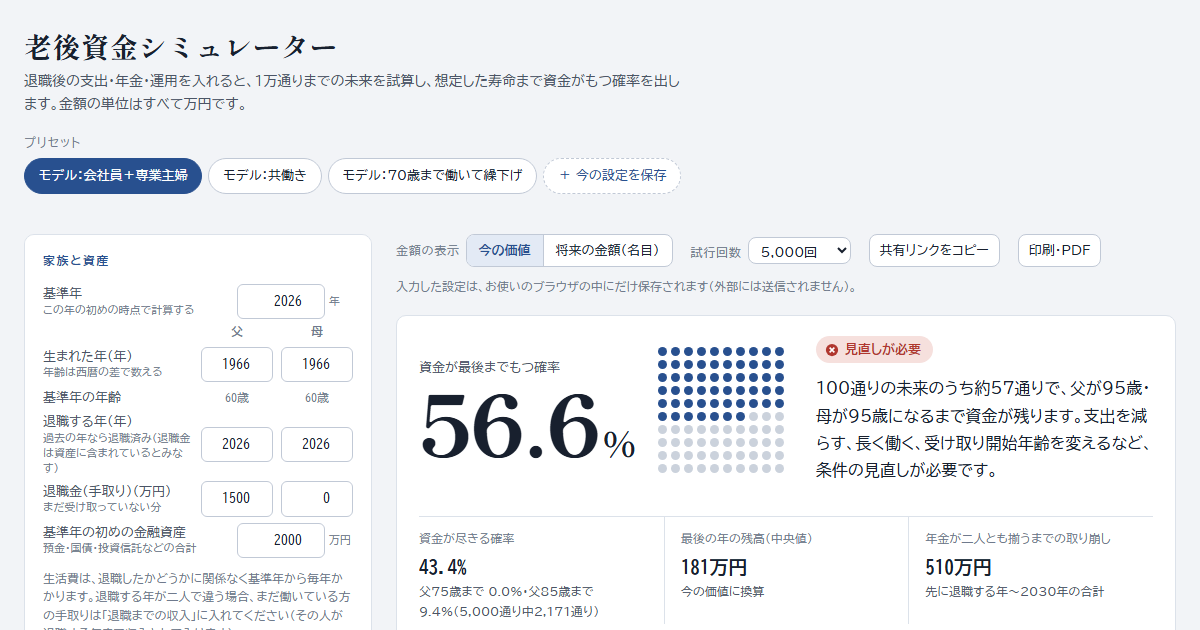
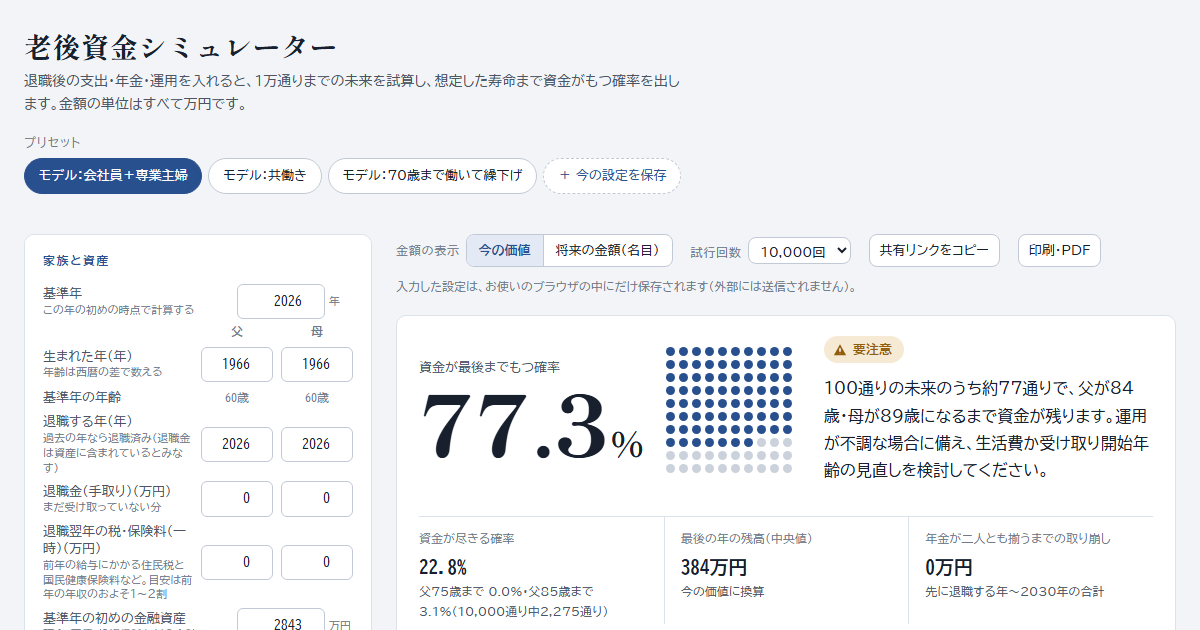
見本の世帯を公的統計の平均値に置き換える
- 年金・手取り率・生活費・資産と配分・60〜64歳の収入・寿命・介護費を、厚労省・総務省・生命保険文化センターの統計の平均値に
- 株の期待リターン・リスク・相関は GPIF 第5期（成長型経済移行・継続ケース）、インフレ率は日銀の目標と財政検証、国債・現金の金利は2026年9〜10月時点の値に
- 出典欄に各値の出典と、筆者の置き方（手取り約8割、介護は最後の5年、目減りの年平均）を明記
- 配分のスライダーを1%刻みに（18% が 20% に丸められて計算されていた）、年金・生活費などの入力の刻みを細かく
- プリセット（共働き・70歳まで働いて繰下げ）も同じ統計から作り直し、OG 画像を撮り直した

diff --git a/老後資金シミュレーター.html b/老後資金シミュレーター.html
@@ -449,7 +449,7 @@ details.assume ul{margin:12px 0 0;padding-left:1.2em;color:var(--ink-2);display:
           <li>車は指定した時期に1台ずつ、それぞれの価格で買い、買い替え間隔が0なら買い替えません。買い替えのときも同じ価格とします。間隔を入れた場合は、その間隔ごとに買い替えます（運転をやめる年齢までに間隔の半分以上使える場合だけ）。「1台に減らす年齢」を過ぎたら2台目は買い替えません。維持費は基準年から、今の台数分かかります。</li>
           <li>「国債で取っておく」を選ぶと、旅行代と車の購入費（2台目・買い替え分も含むすべて）をインフレ込みで見積もり、国債の利回りで割り引いた額を今の資産から先に取り分けます（利回りは一定と仮定）。取り分けた分は運用の配分に含めず、資産グラフと収支表では合計に含めます。資金が尽きたかどうかは運用資産で判定します。</li>
           <li>「毎年、比率を元に戻す」は株式・債券・現金の比率を毎年リバランスします。「分けて持つ」は、毎年の取り崩しを現金→国債→株の順に払い、年末に翌年からの必要額に合わせて現金と国債を補充します。暴落時ルールがオンなら、株が直近の高値から指定した率以上下がっている年は株を売らず、国債から現金を補充します（国債が足りなければ株を売ります）。</li>
-          <li>リターンは対数正規分布です。相関は全世界株と日本株0.65、株と債券0.2としています。日本株の配当は値上がり益と合わせたリターンに含めて扱い、NISAの外なら配当に約20%の税金がかかる分だけリターンを差し引きます。</li>
+          <li>リターンは対数正規分布です。相関は全世界株と日本株0.69（GPIF の外国株式と国内株式の相関）、株と債券0.2としています。日本株の配当は値上がり益と合わせたリターンに含めて扱い、NISAの外なら配当に約20%の税金がかかる分だけリターンを差し引きます。</li>
           <li>医療費の上乗せは指定した年齢から、介護・施設費は指定した年齢から指定した年数（0なら寿命の想定まで）、それぞれ生きている間だけかかります（どちらもインフレ率で上がります）。「退職翌年の税・保険料」は、それぞれが退職した翌年に一度だけ払う額として生活費に上乗せします（インフレ率で上がります）。運用益の税金（NISA枠外は約20%）、住宅の修繕費、介護の一時費用（住宅改修など）は含みません。必要に応じて生活費や医療費に上乗せしてください。</li>
           <li>この結果は仮定に基づく試算で、将来を保証するものではありません。大きな判断の前にはFP等の専門家に相談してください。</li>
         </ul>
@@ -466,11 +466,17 @@ details.assume ul{margin:12px 0 0;padding-left:1.2em;color:var(--ink-2);display:
         <li>遺族厚生年金（亡くなった方の老齢厚生年金の4分の3）・中高齢寡婦加算：<a href="https://www.nenkin.go.jp/" target="_blank" rel="noopener">日本年金機構</a>「遺族年金」</li>
         <li>生活費の目安：総務省統計局「<a href="https://www.stat.go.jp/data/kakei/" target="_blank" rel="noopener">家計調査</a>」（高齢夫婦無職世帯の消費支出）</li>
         <li>介護・施設費の目安（月額平均9.0万円、在宅5.3万円・施設13.8万円、平均期間55.0か月）：生命保険文化センター「2024（令和6）年度 生命保険に関する全国実態調査」（<a href="https://www.jili.or.jp/lifeplan/lifesecurity/1116.html" target="_blank" rel="noopener">介護にはどれくらいの費用・期間がかかる？</a>）</li>
-        <li>年金額の初期値（夫 月16万円・妻 月7万円）の目安：厚生労働省「<a href="https://www.mhlw.go.jp/stf/houdou/0000191631_00020.html" target="_blank" rel="noopener">令和8年度の年金額改定についてお知らせします</a>」（標準的な夫婦の年金額 月237,279円、老齢基礎年金の満額 月70,608円）。標準的な夫婦は「夫が平均的な賃金で40年働いた」場合のモデルで、実際に受け取っている額の平均ではありません</li>
-        <li>インフレ率の初期値（年2%）：日本銀行の「<a href="https://www.boj.or.jp/mopo/outline/index.htm" target="_blank" rel="noopener">物価安定の目標</a>」（消費者物価の前年比上昇率2%）に合わせた仮定です。実際の物価上昇率は、年によってこれより高いことも低いこともあります</li>
-        <li>寿命の想定の初期値（95歳）：平均寿命（男81.35年・女87.33年）より長めに取った仮定です。90歳まで生きる人の割合は男26.7%・女50.8%（厚生労働省「<a href="https://www.mhlw.go.jp/toukei/saikin/hw/life/life25/index.html" target="_blank" rel="noopener">令和7年簡易生命表の概況</a>」）</li>
-        <li>株・国債・現金の期待リターンとリスク、相関、年金の手取り率と目減り、国債の利回り、現金の金利の初期値は、筆者が置いた仮定で、公的な推計ではありません。国債と現金の利回りは、今の金利より低めにしています</li>
-        <li>初期値と「モデル：〜」のプリセットは説明用の架空の世帯で、平均値そのものではありません。初期値には介護・施設費を入れていません（入れると確率は下がります）。</li>
+        <li>初期値は、次の公的統計・公表資料の平均値を組み合わせた架空の世帯です（夫婦とも60歳、夫は今年定年）。</li>
+        <li>年金（夫 月16.7万円・妻 月7.1万円、うち夫の厚生年金9.6万円）：厚生労働省「<a href="https://www.mhlw.go.jp/stf/houdou/0000191631_00020.html" target="_blank" rel="noopener">令和8年度の年金額改定について</a>」の標準的な夫婦（月237,279円＝基礎年金70,608円×2＋夫の厚生年金96,063円）。夫が平均的な賃金で40年働いた場合のモデルで、実際に受け取っている額の平均ではありません。共働きのプリセットの妻（月13.5万円、うち厚生年金6.3万円）は同じ資料の「厚生年金期間中心の女性」の平均</li>
+        <li>年金の手取り率87%：総務省統計局「<a href="https://www.stat.go.jp/data/kakei/" target="_blank" rel="noopener">家計調査</a>」2025年の高齢夫婦無職世帯の、実収入254,395円に対する非消費支出（税・社会保険料）32,850円の割合から</li>
+        <li>生活費（月26.4万円）・一人になった後の生活費（56%）：同じく家計調査2025年の高齢夫婦無職世帯の消費支出263,979円と、高齢単身無職世帯の消費支出148,445円。旅行・車・医療費はこの中に含まれるので、初期値では別に足していません</li>
+        <li>金融資産（2,843万円）と運用の配分（株25%・国債18%・現金57%）：総務省統計局「家計調査（貯蓄・負債編）」2025年の世帯主60〜69歳の貯蓄現在高の平均と、その内訳（有価証券・生命保険など・預貯金）。退職金を受け取った世帯も含む平均なので、退職金は0にしています</li>
+        <li>夫の60〜64歳の収入（手取り月28.5万円）：厚生労働省「<a href="https://www.mhlw.go.jp/toukei/itiran/roudou/chingin/kouzou/z2025/index.html" target="_blank" rel="noopener">令和7年賃金構造基本統計調査</a>」の60〜64歳男性の所定内給与（月35.85万円）の約8割（手取りの割合は筆者の概算）</li>
+        <li>寿命の想定（夫84歳・妻89歳）：厚生労働省「<a href="https://www.mhlw.go.jp/toukei/saikin/hw/life/life25/index.html" target="_blank" rel="noopener">令和7年簡易生命表</a>」の60歳の平均余命（男23.86年・女29.07年）。平均余命は半分くらいの人がそれより長生きする年齢で、90歳まで生きる人の割合は男26.7%・女50.8%です</li>
+        <li>介護・施設費（月9.0万円を寿命までの最後の5年間）：生命保険文化センターの平均（月9.0万円、期間55.0か月）。最後の5年間にかかるとしたのは筆者の置き方です</li>
+        <li>株の期待リターン・リスク（全世界株 7.6%・20.4%、日本株 7.0%・19.2%、半分ずつ）と相関：GPIF「<a href="https://www.gpif.go.jp/gpif/15324685gpif/5th_policy_asset_mix_details_jp.pdf" target="_blank" rel="noopener">第5期中期目標期間における基本ポートフォリオについて</a>」の外国株式・国内株式（成長型経済移行・継続ケース）</li>
+        <li>インフレ率（年2%）：日本銀行の「<a href="https://www.boj.or.jp/mopo/outline/index.htm" target="_blank" rel="noopener">物価安定の目標</a>」、厚生労働省「<a href="https://www.mhlw.go.jp/content/001270476.pdf" target="_blank" rel="noopener">令和6年財政検証</a>」の成長型経済移行・継続ケースの物価上昇率。年金の目減り（年0.2%）は、同じケースで所得代替率が2024年度61.2%から2037年度57.6%に下がることを年平均に直した筆者の概算</li>
+        <li>国債の利回り（税引後1.8%）：財務省「<a href="https://www.mof.go.jp/jgbs/individual/kojinmuke/index.html" target="_blank" rel="noopener">個人向け国債</a>」2026年9月募集の固定5年（年2.24%、税引後1.7849%）。現金の金利（0.3%）：大手銀行の普通預金金利0.40%（2026年10月時点）の税引後</li>
       </ul>
     </details>
     <p class="links" id="footLinks" hidden></p>
@@ -492,15 +498,15 @@ const TMAX = 72, NMAX = 10000;
    下の値は、それを読めないとき（HTMLファイルを直接開いたときなど）だけ使う予備 */
 const DEFAULTS_FILE = 'config.example.json';
 let BASE = {
-  asOf:2026, birthYear:[1966,1966], retireYear:[2026,2026], assets:2000, severance:[1500,0], life:[95,95],
-  single:70, pension:[16,7], kosei:[9,0], survivor:true, claim:[65,65], netRate:90, slide:0.5, living:25,
-  cut75:0, cut85:0, medical:[0,0], medFrom:[0,0], care:[0,0], careFrom:[85,85], travel:1, travelFrom:2026,
-  travelUntil:2035, cars:1, carYears:[2031,2041], carPrice:[200,200], carEvery:0, carMaint:30, driveUntil:80,
-  oneCarFrom:0, earmark:false, safeRate:1.0, preWork:[0,0], work:[20,0], workUntil:[65,65], strategy:0, cashYears:2,
-  preCashYears:1, bondYears:5, crashRule:false, crashDD:20, stockCap:100, jpShare:0, jpTaxable:false, jpYield:3.0,
-  stock:50, bond:40, inflation:2, stockRet:5.0, stockVol:18, jpRet:5.0, jpVol:20, bondRet:1.0, bondVol:0,
-  cashRet:0.2, inflVol:0, bondFloat:0, bondLink:0, linkReal:0.5,
-  retTax:[0,0], careYears:[0,0]
+  asOf:2026, birthYear:[1966,1966], retireYear:[2026,2026], assets:2843, severance:[0,0], life:[84,89],
+  single:56, pension:[16.7,7.1], kosei:[9.6,0], survivor:true, claim:[65,65], netRate:87, slide:0.2, living:26.4,
+  cut75:0, cut85:0, medical:[0,0], medFrom:[0,0], care:[9.0,9.0], careFrom:[79,84], travel:0, travelFrom:2026,
+  travelUntil:2035, cars:0, carYears:[2031,2041], carPrice:[200,200], carEvery:0, carMaint:30, driveUntil:80,
+  oneCarFrom:0, earmark:false, safeRate:1.8, preWork:[0,0], work:[28.5,0], workUntil:[65,65], strategy:0, cashYears:2,
+  preCashYears:1, bondYears:5, crashRule:false, crashDD:20, stockCap:100, jpShare:50, jpTaxable:false, jpYield:3.0,
+  stock:25, bond:18, inflation:2.0, stockRet:7.6, stockVol:20.4, jpRet:7.0, jpVol:19.2, bondRet:1.8, bondVol:0,
+  cashRet:0.3, inflVol:0, bondFloat:0, bondLink:0, linkReal:0.5,
+  retTax:[0,0], careYears:[5,5]
 };
 let PRESETS = [];
 let LINKS = {}; // config.example.json の links（repo: GitHub のURL、article: 解説記事のURL）
@@ -521,12 +527,12 @@ const GROUPS = [
   {title:'寿命の想定', note:'持病などで短めに見積もる人は、その年齢を入れます。二人の年齢を違う値にすると、一人になった後の期間も計算されます。', items:[
     {t:'head'},
     {t:'pair', k:'life', label:'この年齢まで資金を用意', unit:'歳', min:60, max:110, step:1},
-    {t:'one', k:'single', label:'一人になった後の生活費', sub:'二人のときに対する割合', unit:'%', min:30, max:100, step:5}
+    {t:'one', k:'single', label:'一人になった後の生活費', sub:'二人のときに対する割合', unit:'%', min:30, max:100, step:1}
   ]},
   {title:'年金', note:'遺族厚生年金は、亡くなった方の厚生年金（繰上げ・繰下げをしない場合の額）の4分の3から、残された方自身の厚生年金を引いた差額です。非課税なので手取り率はかけません。厚生年金の月額が分からないときは、年金の月額から基礎年金（満額で月6.9万円）を引いた額が目安です。', items:[
     {t:'head'},
-    {t:'pair', k:'pension', label:'年金の月額', sub:'65歳から受け取る場合', unit:'万円', min:0, max:60, step:0.5},
-    {t:'pair', k:'kosei', label:'うち厚生年金の月額', sub:'ねんきん定期便の「老齢厚生年金」', unit:'万円', min:0, max:60, step:0.5},
+    {t:'pair', k:'pension', label:'年金の月額', sub:'65歳から受け取る場合', unit:'万円', min:0, max:60, step:0.1},
+    {t:'pair', k:'kosei', label:'うち厚生年金の月額', sub:'ねんきん定期便の「老齢厚生年金」', unit:'万円', min:0, max:60, step:0.1},
     {t:'pair', k:'claim', label:'受け取り開始年齢', unit:'歳', min:60, max:75, step:1},
     {t:'fx'},
     {t:'one', k:'netRate', label:'手取り率', sub:'月額が額面なら85〜90%', unit:'%', min:50, max:100, step:1},
@@ -534,7 +540,7 @@ const GROUPS = [
     {t:'chk', k:'survivor', label:'一人になった後、遺族厚生年金を受け取る'}
   ]},
   {title:'支出', items:[
-    {t:'one', k:'living', label:'生活費（二人の月額）', unit:'万円', min:0, max:200, step:0.5},
+    {t:'one', k:'living', label:'生活費（二人の月額）', unit:'万円', min:0, max:200, step:0.1},
     {t:'one', k:'cut75', label:'75歳から生活費を減らす', sub:'若い方の年齢で判定', unit:'%', min:0, max:60, step:5},
     {t:'one', k:'cut85', label:'85歳から生活費を減らす', unit:'%', min:0, max:60, step:5},
     {t:'one', k:'travel', label:'旅行（月額）', unit:'万円', min:0, max:100, step:0.5},
@@ -565,7 +571,7 @@ const GROUPS = [
   {title:'働いて得る収入', note:'毎年「収入 −（生活費・旅行・車・医療費）」の差を資産に足し引きします。退職までの収入を入れると、退職までに貯まる分も計算に入ります。', items:[
     {t:'head'},
     {t:'pair', k:'preWork', label:'退職までの収入（月額・手取り）', sub:'それぞれが退職する年まで', unit:'万円', min:0, max:200, step:0.5},
-    {t:'pair', k:'work', label:'退職後の収入（月額・手取り）', unit:'万円', min:0, max:100, step:0.5},
+    {t:'pair', k:'work', label:'退職後の収入（月額・手取り）', unit:'万円', min:0, max:100, step:0.1},
     {t:'pair', k:'workUntil', label:'退職後は何歳まで働くか', sub:'この年齢になる前まで', unit:'歳', min:55, max:100, step:1}
   ]},
   {title:'運用', note:'「分けて持つ」の年数は、退職後は取り崩す額（生活費＋旅行・車など − 年金 − 収入）で、退職前は支出そのもので数えます。平常時は毎年、株を売って現金と国債を決めた年数分に戻し、余った国債は株に回します。', items:[
@@ -653,7 +659,7 @@ function buildForm(){
         sec.appendChild(el('div', {class:'frow'}, [labelEl(s.id, it.label), el('div',{class:'inp'},[s])]));
       } else if (it.t === 'alloc'){
         const mk = (k, name) => {
-          const r = el('input', {type:'range', id:'f-'+k, min:0, max:100, step:5, 'aria-label':name+'の比率'});
+          const r = el('input', {type:'range', id:'f-'+k, min:0, max:100, step:1, 'aria-label':name+'の比率'});
           return el('div', {class:'sl'}, [el('span', {text:name}), r, el('output', {id:'o-'+k, for:'f-'+k})]);
         };
         sec.appendChild(el('div', {class:'alloc'}, [
@@ -839,7 +845,7 @@ function draws(){
 function marketParams(p){
   const mu = [p.stockRet/100, p.jpRet/100, p.bondRet/100, p.cashRet/100];
   const sd = [p.stockVol/100, p.jpVol/100, p.bondVol/100, 0.005];
-  const corr = [[1,.65,.2,0],[.65,1,.2,0],[.2,.2,1,0],[0,0,0,1]];
+  const corr = [[1,.69,.2,0],[.69,1,.2,0],[.2,.2,1,0],[0,0,0,1]];
   const S = [], L = [], m = [];
   for (let i=0;i<NA;i++){ S.push([]); L.push([0,0,0,0]); for (let j=0;j<NA;j++) S[i][j] = Math.log(1 + corr[i][j]*sd[i]*sd[j]/((1+mu[i])*(1+mu[j]))); }
   for (let i=0;i<NA;i++){

diff --git a/README.md b/README.md
@@ -200,41 +200,41 @@ python server.py --local
 | `asOf` | 基準年（この年の初めの時点で計算する） | 年 | `2026` |
 | `birthYear` | 生まれた年 [父, 母]（年齢は基準年との差） | 年 | `[1966,  1966]` |
 | `retireYear` | 退職する年 [父, 母]（過去なら退職済み） | 年 | `[2026,  2026]` |
-| `assets` | 基準年の初めの金融資産 | 万円 | `2000` |
-| `severance` | 退職金 [父, 母]（手取り。まだ受け取っていない分） | 万円 | `[1500,  0]` |
+| `assets` | 基準年の初めの金融資産 | 万円 | `2843` |
+| `severance` | 退職金 [父, 母]（手取り。まだ受け取っていない分） | 万円 | `[0,  0]` |
 | `retTax` | 退職翌年に一度だけ払う税・保険料（前年の給与にかかる住民税と国民健康保険料など）。生活費に上乗せ | 万円 | `[0,  0]` |
 
 **寿命の想定**
 
 | キー | 意味 | 単位 | 初期値（見本） |
 |---|---|---|---|
-| `life` | この年齢まで資金を用意する [父, 母] | 歳 | `[95,  95]` |
-| `single` | 一人になった後の生活費（二人のときに対する割合） | % | `70` |
+| `life` | この年齢まで資金を用意する [父, 母] | 歳 | `[84,  89]` |
+| `single` | 一人になった後の生活費（二人のときに対する割合） | % | `56` |
 
 **年金**
 
 | キー | 意味 | 単位 | 初期値（見本） |
 |---|---|---|---|
-| `pension` | 65歳から受け取る場合の年金の月額 [父, 母] | 万円 | `[16,  7]` |
-| `kosei` | うち厚生年金の月額 [父, 母]（遺族厚生年金の計算に使う） | 万円 | `[9,  0]` |
+| `pension` | 65歳から受け取る場合の年金の月額 [父, 母] | 万円 | `[16.7,  7.1]` |
+| `kosei` | うち厚生年金の月額 [父, 母]（遺族厚生年金の計算に使う） | 万円 | `[9.6,  0]` |
 | `survivor` | 一人になった後、遺族厚生年金を受け取るか | – | `true` |
 | `claim` | 受け取り開始年齢 [父, 母]（60〜75） | 歳 | `[65,  65]` |
-| `netRate` | 手取り率 | % | `90` |
-| `slide` | 物価に対する年金の目減り（マクロ経済スライド） | %/年 | `0.5` |
+| `netRate` | 手取り率 | % | `87` |
+| `slide` | 物価に対する年金の目減り（マクロ経済スライド） | %/年 | `0.2` |
 
 **支出**
 
 | キー | 意味 | 単位 | 初期値（見本） |
 |---|---|---|---|
-| `living` | 生活費（二人の月額） | 万円 | `25` |
+| `living` | 生活費（二人の月額） | 万円 | `26.4` |
 | `cut75` | 若い方が75歳になってから生活費を減らす割合 | % | `0` |
 | `cut85` | 若い方が85歳になってから生活費を減らす割合 | % | `0` |
 | `medical` | 医療費の上乗せ（月額）[父, 母] | 万円 | `[0,  0]` |
 | `medFrom` | 医療費を上乗せする年齢 [父, 母]（`0` なら基準年から） | 歳 | `[0,  0]` |
-| `care` | 介護・施設費（月額）[父, 母]。目安：在宅5.3万円・施設13.8万円 | 万円 | `[0,  0]` |
-| `careFrom` | 介護・施設費がかかる年齢 [父, 母]（この年齢から寿命の想定まで） | 歳 | `[85,  85]` |
-| `careYears` | 介護・施設費がかかる年数（`0` なら寿命の想定まで。平均は約5年） | 年 | `[0,  0]` |
-| `travel` | 旅行（月額） | 万円 | `1` |
+| `care` | 介護・施設費（月額）[父, 母]。目安：在宅5.3万円・施設13.8万円 | 万円 | `[9.0,  9.0]` |
+| `careFrom` | 介護・施設費がかかる年齢 [父, 母]（この年齢から寿命の想定まで） | 歳 | `[79,  84]` |
+| `careYears` | 介護・施設費がかかる年数（`0` なら寿命の想定まで。平均は約5年） | 年 | `[5,  5]` |
+| `travel` | 旅行（月額） | 万円 | `0` |
 | `travelFrom` | 旅行する最初の年 | 年 | `2026` |
 | `travelUntil` | 旅行する最後の年 | 年 | `2035` |
 
@@ -242,7 +242,7 @@ python server.py --local
 
 | キー | 意味 | 単位 | 初期値（見本） |
 |---|---|---|---|
-| `cars` | 台数（0〜2） | 台 | `1` |
+| `cars` | 台数（0〜2） | 台 | `0` |
 | `carYears` | 1台目・2台目を買う年（過去なら購入済み） | 年 | `[2031,  2041]` |
 | `carPrice` | 1台の価格 | 万円 | `[200,  200]` |
 | `carEvery` | 買い替え間隔（`0` なら買い替えずに乗りつぶす） | 年 | `0` |
@@ -255,13 +255,13 @@ python server.py --local
 | キー | 意味 | 単位 | 初期値（見本） |
 |---|---|---|---|
 | `earmark` | 旅行代と車の購入費（2台目・買い替え分も含む）を、使うまで国債で別に取っておくか | – | `false` |
-| `safeRate` | その国債の利回り（税引後。個人向け国債 変動10年の利率 × 約0.8） | % | `1.0` |
+| `safeRate` | その国債の利回り（税引後。個人向け国債 変動10年の利率 × 約0.8） | % | `1.8` |
 
 **退職後の収入**
 
 | キー | 意味 | 単位 | 初期値（見本） |
 |---|---|---|---|
-| `work` | 収入（月額・手取り）[父, 母] | 万円 | `[20,  0]` |
+| `work` | 収入（月額・手取り）[父, 母] | 万円 | `[28.5,  0]` |
 | `workUntil` | この年齢になる前まで働く [父, 母] | 歳 | `[65,  65]` |
 
 **運用**
@@ -274,20 +274,20 @@ python server.py --local
 | `crashRule` | 株が大きく下がった年は株を売らず、国債から現金を補充するか ※`strategy: 1` のとき | – | `false` |
 | `crashDD` | 暴落とみなす下落率（株の直近の高値から）※`strategy: 1` のとき | % | `20` |
 | `stockCap` | 株の比率の上限。超えた分は国債へ（`100` なら上限なし）※`strategy: 1` のとき | % | `100` |
-| `stock` | 株の比率 ※`strategy: 0` のとき | % | `50` |
-| `bond` | 債券の比率（残りが現金）※`strategy: 0` のとき | % | `40` |
-| `jpShare` | 株のうち日本株（日本の高配当株インデックスなど）の割合。残りは全世界株 | % | `0` |
+| `stock` | 株の比率 ※`strategy: 0` のとき | % | `25` |
+| `bond` | 債券の比率（残りが現金）※`strategy: 0` のとき | % | `18` |
+| `jpShare` | 株のうち日本株（日本の高配当株インデックスなど）の割合。残りは全世界株 | % | `50` |
 | `jpYield` | 日本株の配当利回り | % | `3.0` |
 | `jpTaxable` | 日本株をNISAの外で持つか（`true` なら配当に約20%課税） | – | `false` |
-| `inflation` | インフレ率 | %/年 | `2` |
+| `inflation` | インフレ率 | %/年 | `2.0` |
 | `inflVol` | インフレ率のぶれ（年ごとの標準偏差）。`0` なら毎年同じ率。前の年のずれを6割引き継ぎ、全世界株（円建て）と相関0.3 | % | `0` |
-| `stockRet` / `stockVol` | 全世界株の期待リターン / リスク | % | `5.0` / `18` |
-| `jpRet` / `jpVol` | 日本株の期待リターン / リスク | % | `5.0` / `20` |
-| `bondRet` / `bondVol` | 国債の期待リターン（税引後）/ リスク（個人向け国債なら値下がりしないので `0`） | % | `1.0` / `0` |
+| `stockRet` / `stockVol` | 全世界株の期待リターン / リスク | % | `7.6` / `20.4` |
+| `jpRet` / `jpVol` | 日本株の期待リターン / リスク | % | `7.0` / `19.2` |
+| `bondRet` / `bondVol` | 国債の期待リターン（税引後）/ リスク（個人向け国債なら値下がりしないので `0`） | % | `1.8` / `0` |
 | `bondFloat` | 国債のうち変動金利（個人向け国債 変動10年など）の割合。前の年のインフレ率のずれの半分だけ翌年の利回りが動く | % | `0` |
 | `bondLink` | 国債のうち物価連動国債の割合。「実質利回り＋その年のインフレ率」で増え、増えた分に約20%課税 | % | `0` |
 | `linkReal` | 物価連動国債の実質利回り（税引前） | % | `0.5` |
-| `cashRet` | 現金の金利（`inflVol` が0より大きいときは、変動金利と同じようにインフレ率に追随） | % | `0.2` |
+| `cashRet` | 現金の金利（`inflVol` が0より大きいときは、変動金利と同じようにインフレ率に追随） | % | `0.3` |
 
 ## 「現金＋国債＋株に分けて持つ」の動き
 
